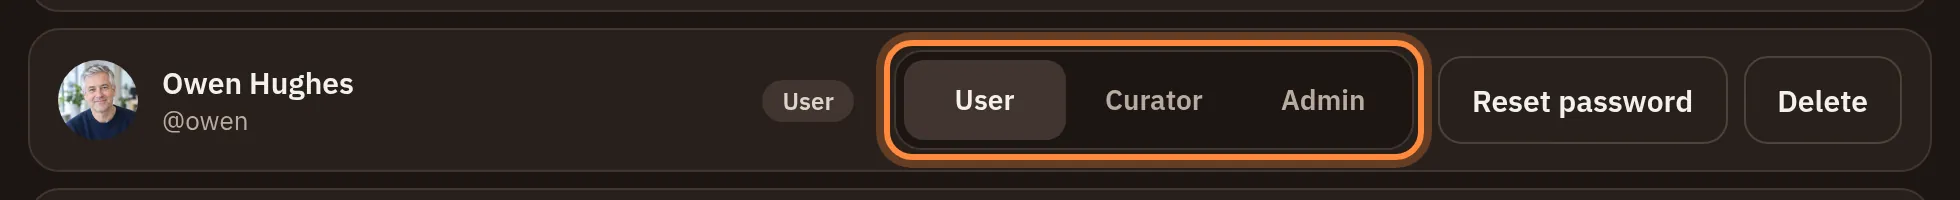
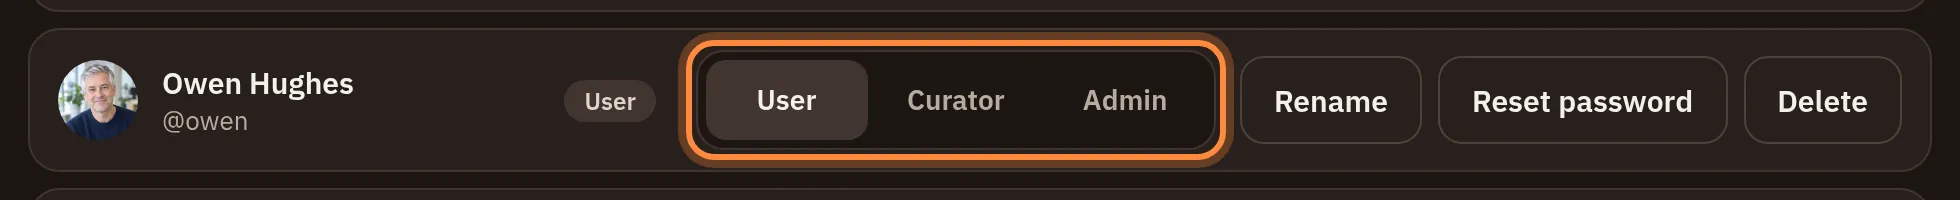
Admins can rename people
Rename sits beside Reset password on Admin, Users, and changes someone's display name, the
username they sign in with, or both. The rules are the ones for adding someone, and names an
admin gives aren't checked by the AI. They stay signed in, the queue shows the new name straight
away, and a new username is said afterwards for the admin to pass on. Asked for by the office's
owner. Adds Stage 17 to dev.md, a Rename section to the Users help topic, and takes its
screenshots again.

Changed region(s): [[0.2801, 0.15, 0.7469, 0.84]]

diff --git a/web/src/pages/UsersPage.tsx b/web/src/pages/UsersPage.tsx
@@ -91,6 +91,9 @@ function UserRow({ user, isSelf, onChange, onDeleted }: RowProps) {
   const [confirming, setConfirming] = useState<Confirming>(null);
   const [temporary, setTemporary] = useState<string | null>(null);
   const [error, setError] = useState<string | null>(null);
+  const [renaming, setRenaming] = useState(false);
+  // Said after a new username, for the admin to pass on.
+  const [renamed, setRenamed] = useState<string | null>(null);
   const controlsId = useId();
   const name = user.display_name;
 
@@ -127,7 +130,18 @@ function UserRow({ user, isSelf, onChange, onDeleted }: RowProps) {
   const ask = (what: Confirming) => {
     setConfirming(what);
     setTemporary(null);
+    setRenamed(null);
     setError(null);
+  };
+
+  const rename = (updated: User) => {
+    onChange(updated);
+    setRenaming(false);
+    setRenamed(
+      updated.username === user.username
+        ? null
+        : `${updated.display_name} now signs in as ${updated.username}. Let them know.`,
+    );
   };
 
   return (
@@ -167,6 +181,16 @@ function UserRow({ user, isSelf, onChange, onDeleted }: RowProps) {
               disabled={busy}
             />
             <span className={users.actions}>
+              <Button
+                variant="secondary"
+                disabled={busy}
+                onClick={() => {
+                  ask(null);
+                  setRenaming(true);
+                }}
+              >
+                Rename
+              </Button>
               <Button variant="secondary" disabled={busy} onClick={() => ask("reset")}>
                 Reset password
               </Button>
@@ -178,7 +202,7 @@ function UserRow({ user, isSelf, onChange, onDeleted }: RowProps) {
         )}
       </div>
 
-      {(confirming || temporary || error) && (
+      {(confirming || temporary || renamed || error) && (
         <div className={users.extra}>
           {confirming && (
             <div className={users.confirm}>
@@ -198,10 +222,95 @@ function UserRow({ user, isSelf, onChange, onDeleted }: RowProps) {
             </div>
           )}
           {temporary && <TemporaryPasswordBox name={name} password={temporary} />}
+          {renamed && (
+            <p role="status" className={styles.muted}>
+              {renamed}
+            </p>
+          )}
           <FormError message={error} />
         </div>
       )}
+
+      <RenameDialog
+        user={user}
+        open={renaming}
+        onClose={() => setRenaming(false)}
+        onRenamed={rename}
+      />
     </li>
+  );
+}
+
+type RenameProps = {
+  user: User;
+  open: boolean;
+  onClose: () => void;
+  onRenamed: (user: User) => void;
+};
+
+/** A new display name, username or both, the same two fields as adding someone. */
+function RenameDialog({ user, open, onClose, onRenamed }: RenameProps) {
+  const [error, setError] = useState<string | null>(null);
+  const [busy, setBusy] = useState(false);
+
+  const close = () => {
+    setError(null);
+    onClose();
+  };
+
+  const submit = async (event: FormEvent<HTMLFormElement>) => {
+    event.preventDefault();
+    const form = new FormData(event.currentTarget);
+    setBusy(true);
+    setError(null);
+    try {
+      onRenamed(
+        await api<User>("PUT", `/users/${user.id}/name`, {
+          display_name: String(form.get("display_name") ?? ""),
+          username: String(form.get("username") ?? ""),
+        }),
+      );
+    } catch (caught) {
+      setError(errorText(caught));
+    } finally {
+      setBusy(false);
+    }
+  };
+
+  return (
+    <Dialog open={open} onClose={close} title={`Rename ${user.display_name}`}>
+      <form className={users.form} onSubmit={submit}>
+        <TextField
+          label="Display name"
+          name="display_name"
+          required
+          maxLength={40}
+          autoComplete="off"
+          defaultValue={user.display_name}
+        />
+        <TextField
+          label="Username"
+          name="username"
+          required
+          autoComplete="off"
+          autoCapitalize="none"
+          spellCheck={false}
+          defaultValue={user.username}
+        />
+        <p className={styles.muted}>
+          A new username is the one they sign in with from now on. They stay signed in.
+        </p>
+        <FormError message={error} />
+        <div className={users.formButtons}>
+          <Button variant="secondary" onClick={close}>
+            Cancel
+          </Button>
+          <Button type="submit" disabled={busy}>
+            Save
+          </Button>
+        </div>
+      </form>
+    </Dialog>
   );
 }
 

diff --git a/web/src/pages/UsersPage.module.css b/web/src/pages/UsersPage.module.css
@@ -90,9 +90,13 @@
 }
 
 .actions {
-  display: grid;
-  grid-template-columns: repeat(2, minmax(0, 1fr));
+  display: flex;
+  flex-wrap: wrap;
   gap: 8px;
+}
+
+.actions > * {
+  flex: 1 1 auto;
 }
 
 .confirm {
@@ -174,8 +178,8 @@
     width: 260px;
   }
 
-  .actions {
-    display: flex;
+  .actions > * {
+    flex: none;
   }
 
   .extra,

diff --git a/tests/test_accounts.py b/tests/test_accounts.py
@@ -103,6 +103,40 @@ def test_deleting_a_user(client: TestClient) -> None:
     register(client, "priya")
 
 
+def test_renaming_someone(client: TestClient, people, openai) -> None:
+    priya = register(client, "priya")
+    client.post("/api/queue", json={"track_id": spotify_id("dreams")}).raise_for_status()
+    priya_cookies = dict(client.cookies)
+    openai.names["Big Ricky"] = "vulgar"  # not asked: names admins give aren't checked
+
+    sign_in(client, *ADMIN)
+    rename = f"/api/users/{priya['id']}/name"
+    taken = client.put(rename, json={"username": "User", "display_name": "Priya"})
+    assert (taken.status_code, taken.json()["detail"]) == (409, "That username is taken.")
+    assert client.put(rename, json={"username": "p", "display_name": "Priya"}).status_code == 422
+    renamed = client.put(rename, json={"username": " Big.Ricky ", "display_name": " Big  Ricky "})
+    assert renamed.status_code == 200, renamed.text
+    assert (renamed.json()["username"], renamed.json()["display_name"]) == (
+        "big.ricky",
+        "Big Ricky",
+    )
+    # Keeping the same username is fine.
+    client.put(rename, json={"username": "big.ricky", "display_name": "Ricky"}).raise_for_status()
+
+    # Their request shows the new name.
+    queue = client.get("/api/queue").json()
+    entries = [queue["playing"], queue["next"], *queue["waiting"]]
+    assert [e["requested_by"]["display_name"] for e in entries if e] == ["Ricky"]
+
+    # They stay signed in, and sign in with the new username from now on.
+    client.cookies.clear()
+    client.cookies.update(priya_cookies)
+    assert client.get("/api/me").json()["display_name"] == "Ricky"
+    old = client.post("/api/auth/login", json={"username": "priya", "password": PASSWORD})
+    assert old.status_code == 401
+    assert sign_in(client, "Big.Ricky")["display_name"] == "Ricky"
+
+
 def test_password_reset_signs_the_user_out_everywhere(client: TestClient) -> None:
     priya = register(client, "priya")
     old_cookies = dict(client.cookies)

diff --git a/src/guildfm/api/users.py b/src/guildfm/api/users.py
@@ -1,4 +1,4 @@
-"""User management for admins: list, add, change roles, reset passwords, delete."""
+"""User management for admins: list, add, rename, change roles, reset passwords, delete."""
 
 from typing import Annotated
 
@@ -9,7 +9,7 @@ from sqlalchemy.ext.asyncio import AsyncSession
 
 from guildfm.accounts import create_user, find_user, reset_password, temporary_password
 from guildfm.api.account import forget_avatar
-from guildfm.api.schemas import NewUserIn, RoleIn, TemporaryPasswordOut, UserOut
+from guildfm.api.schemas import NameIn, NewUserIn, RoleIn, TemporaryPasswordOut, UserOut
 from guildfm.auth import require
 from guildfm.db import get_session
 from guildfm.models import User
@@ -59,6 +59,25 @@ async def change_role(user_id: int, body: RoleIn, admin: Admin, db: Db) -> UserO
     user = await someone_else(user_id, admin, db)
     user.role = body.role
     await db.commit()
+    return UserOut.model_validate(user)
+
+
+@router.put("/{user_id}/name")
+async def rename(user_id: int, body: NameIn, admin: Admin, db: Db, request: Request) -> UserOut:
+    """A new display name, username or both. Unlike names people pick for themselves, these
+    aren't checked by the AI, as when an admin adds someone. They stay signed in, and sign in
+    with the new username from then on."""
+    user = await someone_else(user_id, admin, db)
+    taken = await find_user(db, body.username)
+    if taken and taken.id != user.id:
+        raise HTTPException(status_code=409, detail="That username is taken.")
+    user.username, user.display_name = body.username, body.display_name
+    try:
+        await db.commit()
+    except IntegrityError:
+        raise HTTPException(status_code=409, detail="That username is taken.") from None
+    # Their name shows on requests in the queue and on Now Playing.
+    await request.app.state.queue.changed()
     return UserOut.model_validate(user)
 
 

diff --git a/tests/test_permissions.py b/tests/test_permissions.py
@@ -53,6 +53,7 @@ USER_ROUTES = [
     ("get", "/api/users", None),
     ("post", "/api/users", {"username": "lena", "display_name": "Lena"}),
     ("patch", "/api/users/{id}", {"role": "curator"}),
+    ("put", "/api/users/{id}/name", {"username": "lena", "display_name": "Lena"}),
     ("post", "/api/users/{id}/reset-password", None),
     ("delete", "/api/users/{id}", None),
 ]
@@ -80,6 +81,8 @@ def test_admins_manage_users(client: TestClient, people, method, path, body) -> 
 def test_admins_cant_change_their_own_account(client: TestClient) -> None:
     me = sign_in(client, *ADMIN)
     assert client.patch(f"/api/users/{me['id']}", json={"role": "user"}).status_code == 403
+    name = {"username": "boss", "display_name": "Boss"}
+    assert client.put(f"/api/users/{me['id']}/name", json=name).status_code == 403
     assert client.post(f"/api/users/{me['id']}/reset-password").status_code == 403
     assert client.delete(f"/api/users/{me['id']}").status_code == 403
 

diff --git a/src/guildfm/api/schemas.py b/src/guildfm/api/schemas.py
@@ -69,6 +69,11 @@ class RoleIn(BaseModel):
     role: Role
 
 
+class NameIn(BaseModel):
+    username: Username
+    display_name: DisplayName
+
+
 class UserOut(BaseModel):
     model_config = ConfigDict(from_attributes=True)
 

diff --git a/dev.md b/dev.md
@@ -26,6 +26,7 @@ From Stage 14 on, any change people can see also updates its help topics and tak
 - [x] Stage 14: Help
 - [ ] Stage 15: Cloudflare migration
 - [ ] Stage 16: Spotify rate limits
+- [ ] Stage 17: Renaming people
 
 ## Stage 0: Feasibility and design
 - [x] Prove a chosen Spotify track can be queued and played on the office Sonos speakers
@@ -287,3 +288,12 @@ Goal: GuildFM stays under Spotify's rate limit, and when it does go over, it wai
 - [ ] Deploy to office box
 
 Done when: the office box is on this, and a 429 from Spotify pauses GuildFM for the time Spotify gives, with search saying until when.
+
+## Stage 17: Renaming people
+Goal: an admin can rename someone, their display name, their username or both. Asked for by the office's owner through Keith on 2026-11-12.
+- [x] Renaming, for admins only and not their own account (as for roles): the same rules as adding someone (a username 3 to 32 letters, numbers, dots, dashes or underscores, not taken; a display name up to 40), and not checked by the AI, as names admins give aren't. They stay signed in, and the queue and Now Playing show the new name straight away
+- [x] Rename beside Reset password on Admin, Users, opening a dialog like Add someone's with both names filled in. A new username is said afterwards ("Priya now signs in as priya.s. Let them know.")
+- [x] Tests, the changelog, the Users help topic and its screenshots
+- [ ] Deploy to office box
+
+Done when: an admin renames someone at the office, who stays signed in, sees the new name on their requests, and signs in with the new username next time.

diff --git a/web/src/help/topics/users.md b/web/src/help/topics/users.md
@@ -38,6 +38,14 @@ You can't change your own account. Another admin has to.
 
 New accounts start as users.
 
+## Rename someone
+
+1. Tap **Rename** beside them.
+2. Change their **Display name**, their **Username**, or both.
+3. Tap **Save**.
+
+A new display name shows everywhere straight away, on requests in the queue too. A new username is the one they sign in with from then on, so let them know. They stay signed in meanwhile.
+
 ## Reset a password
 
 Tap **Reset password**, then **Reset**. GuildFM signs them out everywhere, and shows a temporary password to pass on. They choose a new one when they sign in.

diff --git a/CHANGELOG.md b/CHANGELOG.md
@@ -13,6 +13,8 @@ uses [Semantic Versioning](https://semver.org/spec/v2.0.0.html).
   Chrome's Local network permission to open it. Visitors who arrive through Cloudflare from
   anywhere but the office's own public address see "Connect to TJardinePrivate" instead of
   GuildFM. The office's address is looked up by the office machine itself, so it can change.
+- Admins can rename people on Admin, Users: their display name, the username they sign in
+  with, or both. They stay signed in, and sign in with the new username from then on.
 
 ### Changed
 
